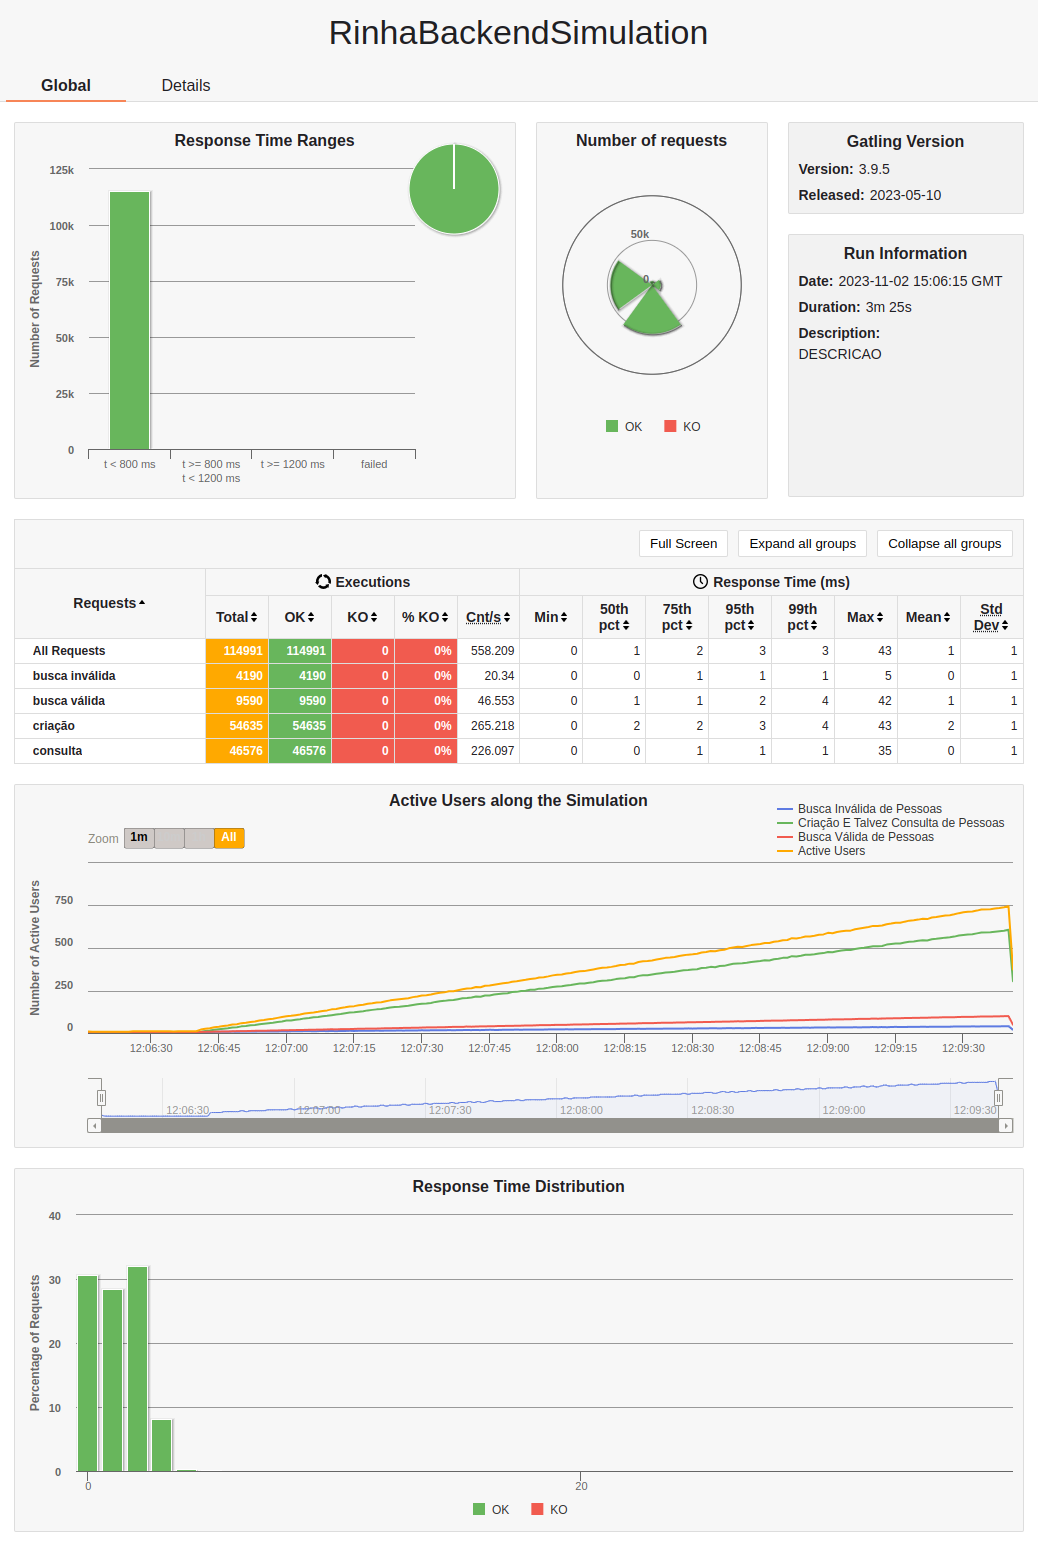
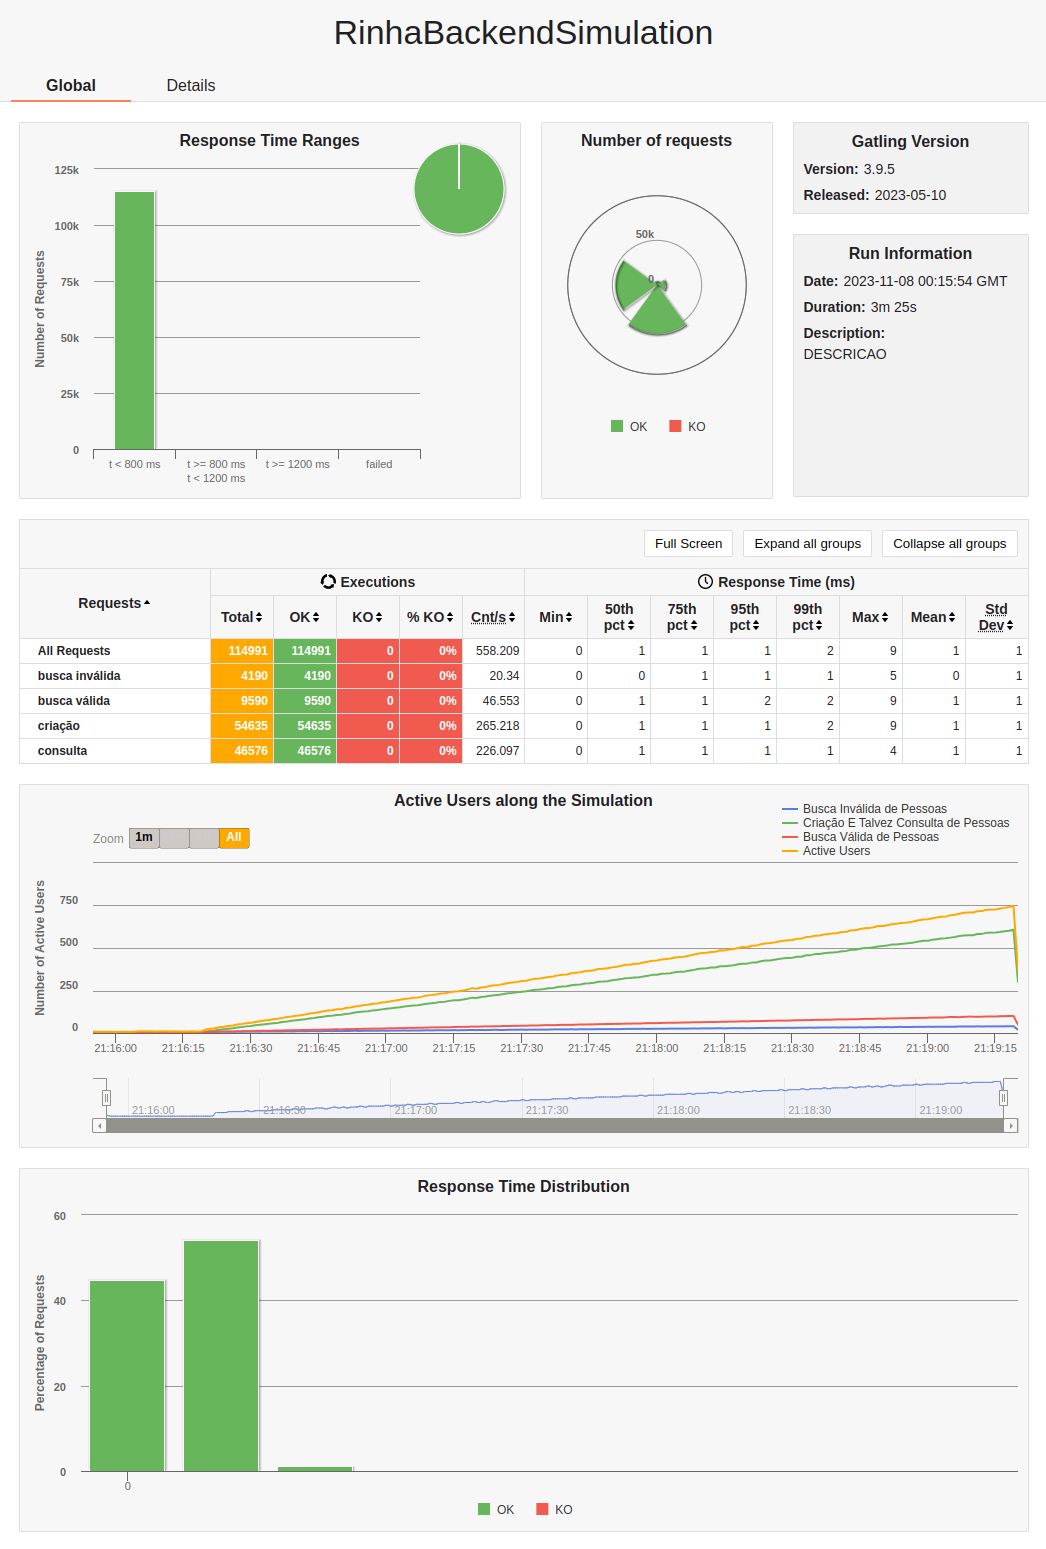
docs: update results

diff --git a/README.md b/README.md
@@ -73,13 +73,13 @@ Generating reports...
 ---- Global Information --------------------------------------------------------
 > request count                                     114991 (OK=114991 KO=0     )
 > min response time                                      0 (OK=0      KO=-     )
-> max response time                                     67 (OK=67     KO=-     )
+> max response time                                      9 (OK=9      KO=-     )
 > mean response time                                     1 (OK=1      KO=-     )
-> std deviation                                          2 (OK=2      KO=-     )
+> std deviation                                          1 (OK=1      KO=-     )
 > response time 50th percentile                          1 (OK=1      KO=-     )
-> response time 75th percentile                          2 (OK=2      KO=-     )
-> response time 95th percentile                          3 (OK=3      KO=-     )
-> response time 99th percentile                          3 (OK=3      KO=-     )
+> response time 75th percentile                          1 (OK=1      KO=-     )
+> response time 95th percentile                          1 (OK=1      KO=-     )
+> response time 99th percentile                          2 (OK=2      KO=-     )
 > mean requests/sec                                558.209 (OK=558.209 KO=-     )
 ---- Response Time Distribution ------------------------------------------------
 > t < 800 ms                                        114991 (100%)
@@ -109,13 +109,13 @@ Generating reports...
 ---- Global Information --------------------------------------------------------
 > request count                                     114991 (OK=114991 KO=0     )
 > min response time                                      0 (OK=0      KO=-     )
-> max response time                                     43 (OK=43     KO=-     )
+> max response time                                      9 (OK=9      KO=-     )
 > mean response time                                     1 (OK=1      KO=-     )
 > std deviation                                          1 (OK=1      KO=-     )
 > response time 50th percentile                          1 (OK=1      KO=-     )
-> response time 75th percentile                          2 (OK=2      KO=-     )
-> response time 95th percentile                          3 (OK=3      KO=-     )
-> response time 99th percentile                          3 (OK=3      KO=-     )
+> response time 75th percentile                          1 (OK=1      KO=-     )
+> response time 95th percentile                          1 (OK=1      KO=-     )
+> response time 99th percentile                          2 (OK=2      KO=-     )
 > mean requests/sec                                558.209 (OK=558.209 KO=-     )
 ---- Response Time Distribution ------------------------------------------------
 > t < 800 ms                                        114991 (100%)
